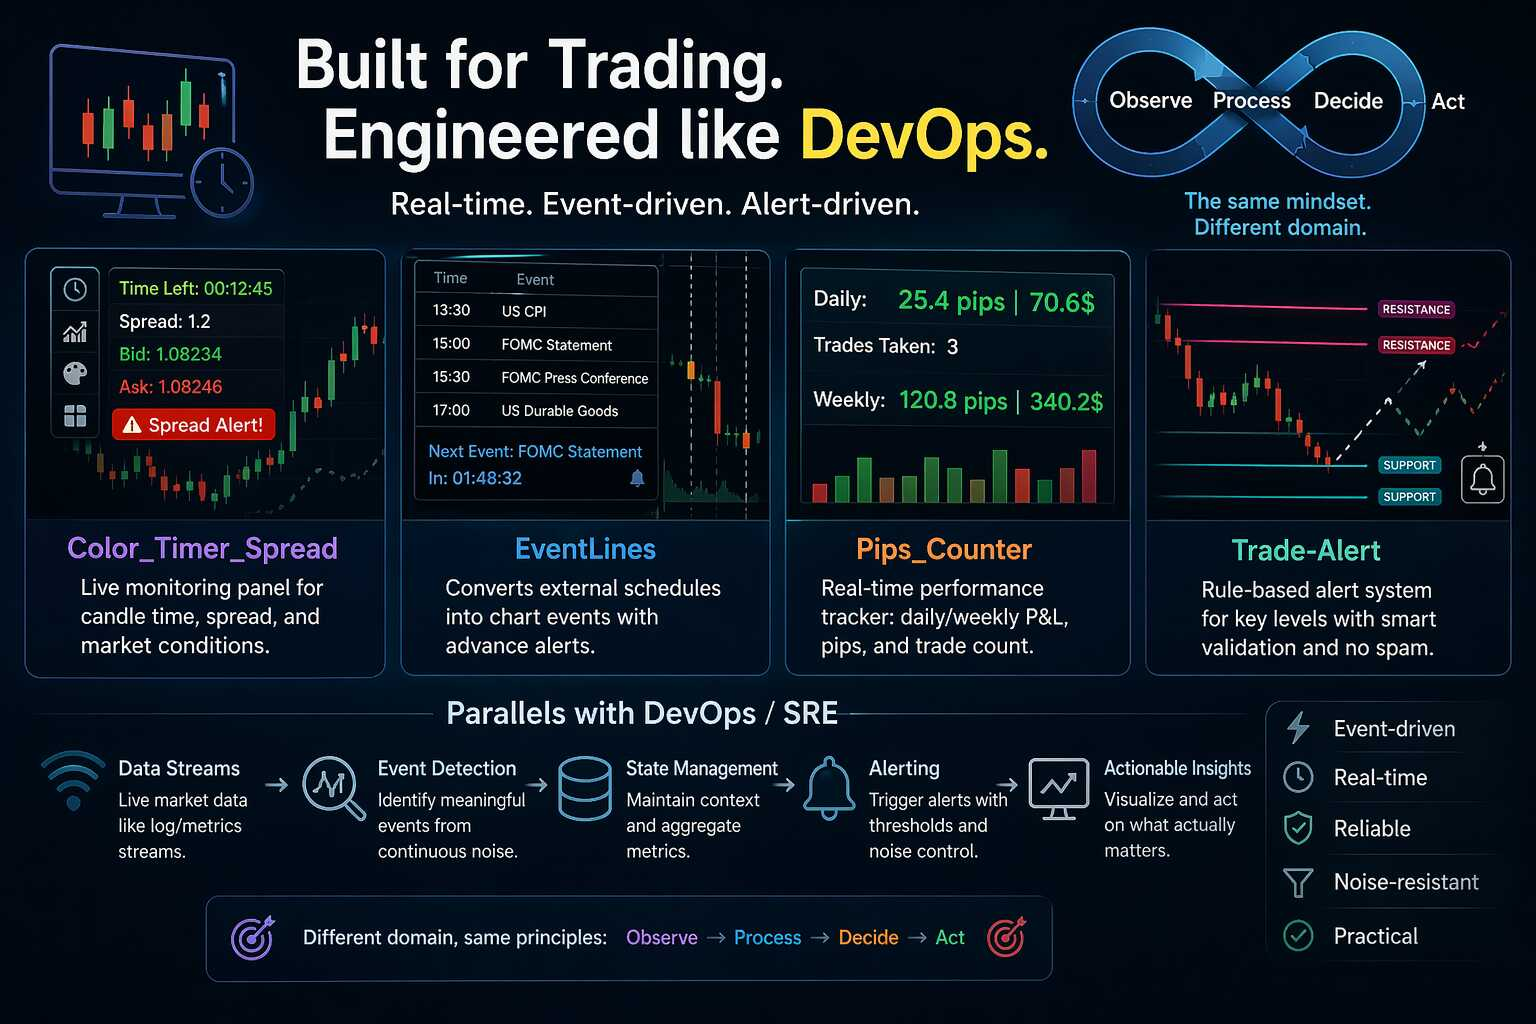
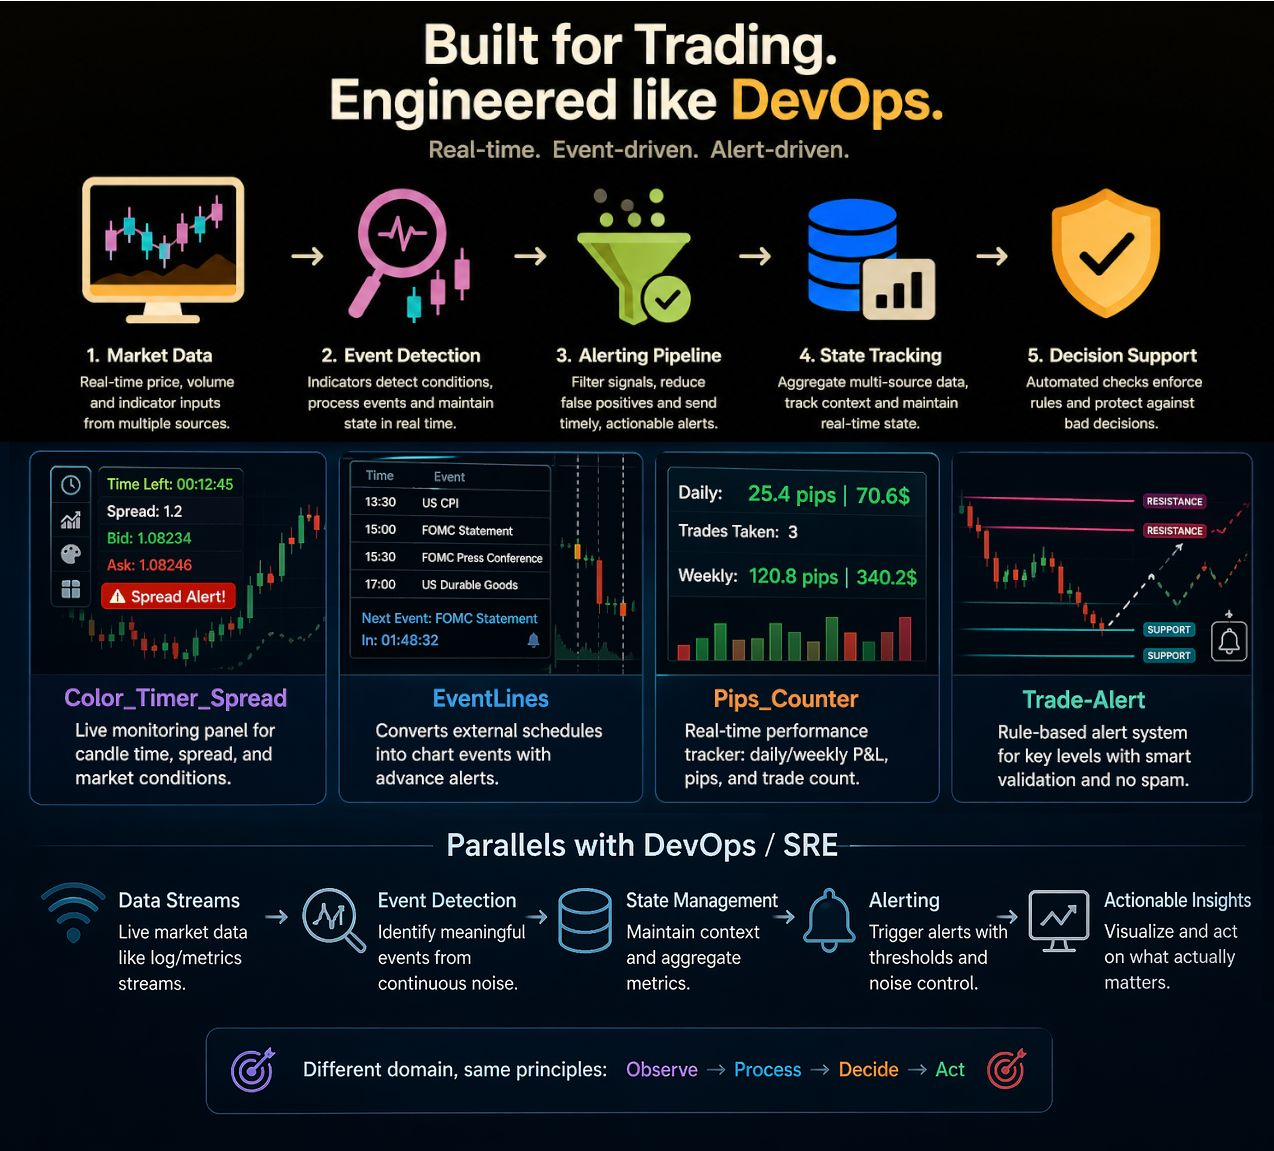
updated readme

diff --git a/README.md b/README.md
@@ -1,45 +1,39 @@
 # MetaTrader 5 Custom Indicators (MQL5)
 
-*Built a set of **`real-time, event-driven monitoring tools in MQL5`** to automate **`trading workflows, reduce manual intervention, and enforce decision discipline`**.*
+> [!NOTE]
+> This is not a single indicator — with time I built a collection of more than 10+ MQL5 tools, each built to solve a specific trading or chart analysis problem.
+>
+> This README highlights the most prominent ones. Some work together as a system; others are standalone solutions.
 
-*These systems process live market data streams, detect meaningful events, and trigger controlled alerts — **`applying engineering principles similar to observability, alerting, and event processing systems used in distributed environments`**.*
+*Built a suite of real-time, event-driven monitoring tools in MQL5 to automate decision workflows, eliminate manual intervention, and enforce operational discipline — the same problems DevOps solves, just in a different domain.*
 
-*Although developed for financial markets, this project demonstrates practical capabilities relevant to DevOps and automation engineering, including:*
+*The domain is financial markets. The engineering mindset is DevOps:*
 
-- Real-time monitoring systems
-- Event detection and processing
-- Alerting pipelines with noise control
-- Data aggregation and state tracking
-- Operational guardrails and automation
+- **Real-time monitoring** — live market data observation with state awareness
+- **Event detection & processing** — trigger-based logic responding to condition changes
+- **Alerting pipelines with noise control** — signal filtering to reduce false positives
+- **Data aggregation & state tracking** — multi-source inputs consolidated into actionable output
+- **Operational guardrails** — automated checks that enforce rules and prevent bad decisions
 
 ![alt text](Screenshots/ss01.jpg)
 
 ## 📑 Table of Contents
 
-- **[Overview](#-overview)**
-- **[Architecture](#-architecture)**
-- **[Data Processors](#-data-processors)**
-- **[Indicators](#-indicators)**
-- **[Engineering Highlights](#-key-engineering-highlights)**
-- **[Challenges & Decisions](#-challenges--decisions)**
-- **[Why This Matters for DevOps](#-why-this-project-matters-for-devops)**
-- **[Author](#-author)**
+- [Overview](#-overview)
+- [Indicators](#-indicators)
+- [Architecture](#-architecture)
+- [Data Processors](#-data-processors)
+- [Indicators](#-indicators)
+- [Engineering Highlights](#-key-engineering-highlights)
+- [Why This Matters for DevOps](#-why-this-project-matters-for-devops)
 
 ## 📌 Overview
 
-*This project consists of **`four custom indicators`** designed as real-time monitoring and alerting tools for trading environments.*
+*This project highlights four custom indicators designed as real-time monitoring and alerting tools for trading environments.*
 
-*Each indicator operates on live data, maintains internal state, and reacts to events — **`similar to how production systems monitor metrics, detect anomalies, and trigger alerts`**.*
+*Each indicator operates on live data, maintains internal state, and reacts to events — similar to how production systems monitor metrics, detect anomalies, and trigger alerts.*
 
-Key capabilities demonstrated:
-
-- Event-driven system design
-- Real-time data processing
-- Stateful monitoring and aggregation
-- Alerting logic with controlled triggers
-- Custom tooling for workflow automation
-
-### Indicators
+## 📊 Indicators
 
 - **Color-timer-spread**\
     *Displays candle countdown timers, monitors spread conditions, and provides configurable alerts with visual feedback on charts.*
@@ -52,21 +46,19 @@ Key capabilities demonstrated:
 
 ## 🏗 Architecture
 
-*All indicators follow an **`event-driven architecture, similar to how monitoring and alerting systems operate in distributed environments`**.*
+*All indicators follow an event-driven architecture.*
 
-*Instead of running blindly, each component reacts to live market data, processes events, maintains state, and triggers actions only when conditions are met.*
+*Each component reacts to live market data, processes events, maintains state, and triggers actions only when conditions are met.*
 
-- Key components:
-
-    ```
-    Market Data Stream
-          ↓
-    Event Processing Logic
-          ↓
-    State Tracking (in-memory)
-          ↓
-    Alert / UI Update
-    ```
+```txt
+Market Data Stream
+      ↓
+Event Processing Logic
+      ↓
+State Tracking (in-memory/persistence)
+      ↓
+Alert / UI Update
+```
 
 Design characteristics:
 
@@ -86,68 +78,75 @@ Stream-processing systems
 **How it works:**
 
 - Raw data from investing.com:
+
     ![alt text](./Raw%20Data%20Processors_JS/investing.com.png)
+
 - Processing by Data Processors:
+
     ![alt text](./Raw%20Data%20Processors_JS/JS.png)
+
 - Final Output:
+
     ![alt text](./Raw%20Data%20Processors_JS/events.png)
-- **`Event-lines.mq5`** Reads the structured event data
+
+- Event-lines.mq5 Reads the structured event data
+
     ![alt text](Screenshots/events.jpg)
 
-To support the indicators, I built **lightweight JavaScript-based preprocessing tools** to clean, transform, and structure external data before feeding it into the system.
+To support the indicators, I built lightweight **JavaScript**-based preprocessing tools to clean, transform, and structure external data before feeding it into the system.
 
-These tools act as a data ingestion and normalization layer, **similar to preprocessing steps in observability or ETL pipelines**.
+These tools act as a data ingestion and normalization layer, similar to preprocessing steps in observability or ETL pipelines.
 
 ### 1. Table Cleaner (Tr.js)
 
-A filtering tool to **remove irrelevant or noisy data from raw HTML tables before processing**.
+A filtering tool to remove irrelevant or noisy data from raw HTML tables before processing.
 
 What it does:
 
-- **Removes <tr> blocks based on keyword matching**
-- **Supports case-sensitive and flexible filtering**
-- **Generates a summary report of removed entries**
-- **Outputs cleaned HTML for further processing**
+- Removes `<tr>` blocks based on keyword matching
+- Supports case-sensitive and flexible filtering
+- Generates a summary report of removed entries
+- Outputs cleaned HTML for further processing
 
-![alt text](./Raw%20Data%20Processors_JS/JS.png)
+  ![alt text](./Raw%20Data%20Processors_JS/JS.png)
 
 Engineering relevance:
 
-- **Noise reduction before data processing**
-- **Keyword-based filtering (similar to log filtering rules)**
-- **Data cleaning to improve downstream accuracy**
+- Noise reduction before data processing
+- Keyword-based filtering (similar to log filtering rules)
+- Data cleaning to improve downstream accuracy
 
 ### 2. Event Processor (Events.js)
 
-A utility designed to **extract and structure event data from raw HTML tables**.
+A utility designed to extract and structure event data from raw HTML tables.
 
 What it does:
 
-- **Parses unstructured HTML using DOM processing**
-- **Extracts relevant fields (date, time, country, event name)**
-- **Converts data into a standardized datetime format (YYYY.MM.DD HH:MM:SS)**
-- **Filters events within a configurable time window**
-- **Outputs clean, structured data for downstream consumption**
+- Parses unstructured HTML using DOM processing
+- Extracts relevant fields (date, time, country, event name)
+- Converts data into a standardized datetime format (YYYY.MM.DD HH:MM:SS)
+- Filters events within a configurable time window
+- Outputs clean, structured data for downstream consumption
 
-![alt text](./Raw%20Data%20Processors_JS/JS.png)
+  ![alt text](./Raw%20Data%20Processors_JS/JS.png)
 
 Engineering relevance:
 
-- **Data normalization from inconsistent sources**
-- **Time-based filtering (similar to log/event pipelines)**
-- **Structured output generation for system compatibility**
+- Data normalization from inconsistent sources
+- Time-based filtering (similar to log/event pipelines)
+- Structured output generation for system compatibility
 
 ### Why this matters
 
-These processors ensure that **only clean, relevant, and structured data enters the system**.
+- These processors ensure that only clean, relevant, and structured data enters the system.
 
-This mirrors real-world DevOps workflows, where raw inputs (logs, metrics, events) must be:
+- This mirrors real-world DevOps workflows, where raw inputs (logs, metrics, events) must be:
 
-- **Filtered**
-- **Normalized**
-- **Structured**
+  - Filtered
+  - Normalized
+  - Structured
 
-before they can be reliably processed by monitoring and alerting systems.
+- before they can be reliably processed by monitoring and alerting systems.
 
 ## 🧩 Indicators
 
@@ -157,7 +156,7 @@ before they can be reliably processed by monitoring and alerting systems.
 
 A **real-time monitoring indicator** that provides time-sensitive and spread-related insights directly on the chart.
 
-Acts like a **`live metrics panel`**, helping users react to short-term market conditions without manual tracking.
+Acts like a live metrics panel, helping users react to short-term market conditions without manual tracking.
 
 ![alt text](Screenshots/candle.png)
 
@@ -167,44 +166,59 @@ Acts like a **`live metrics panel`**, helping users react to short-term market c
 - Candle close alert:
   - Toggle-based alert activation
   - Configurable lead time before close
+
     ![alt text](Screenshots/Timer.jpg)
+
 - Spread alert system:
+
   - Triggers when threshold is exceeded
   - Visual (chart color change) + sound notification
   - Designed to quickly highlight abnormal conditions
-- A dedicated color pallete to change the color of selected object on all open charts **(supporting "trade-alert.mq5" indicator)**
+
+- A dedicated color pallete to change the color of selected object on all open charts (supporting `trade-alert.mq5` indicator)
+
     ![alt text](<Screenshots/Line Change.jpg>)
+
 - Bid/Ask price visualization
-- **Context-aware behavior:**
+- Context-aware behavior:
+
   - Disables unnecessary features on lower timeframes (M1)
   - Enables bulk object selection tools when needed
 
-### 2⃣ Event-lines.mq5
+### 2. Event-lines.mq5
 
 #### Purpose
 
-A **time-based event visualization system** that converts external schedules into actionable chart markers.
+A time-based event visualization system that converts external schedules into actionable chart markers.
 
-Useful for **tracking predefined events, similar to how scheduled jobs or external signals are handled in production systems**.
+Useful for tracking predefined events, similar to how scheduled jobs or external signals are handled in production systems.
 
 #### Key Features
 
-- Reads structured **event data from external files**
+- Reads structured event data from external files
+
     ![alt text](Screenshots/events.jpg)
+
 - Translates timestamps into chart-based event markers
+
     ![alt text](Screenshots/Event-lines.jpg)
-- **Pre-event alerting system:**
+
+- Pre-event alerting system:
+
   - Configurable lead time
+
   - Notifies before event occurrence
-- **Fallback mechanism:**
+- Fallback mechanism:
+
   - Defaults to session timings if external data is unavailable
+
   - Ensures system reliability even with missing inputs
 
-### 3⃣ Pips-counter.mq5
+### 3. Pips-counter.mq5
 
 #### Purpose
 
-A **real-time performance monitoring system** that tracks trading activity and aggregates metrics directly on the chart.
+A real-time performance monitoring system that tracks trading activity and aggregates metrics directly on the chart.
 
 Functions similarly to a **lightweight observability dashboard.**
 
@@ -224,19 +238,19 @@ Functions similarly to a **lightweight observability dashboard.**
   - Displays all metrics using structured chart labels
     ![alt text](Screenshots/Pips_Counter.jpg)
 
-        ```
-                        Daily:  25.4 pips |  70.6$
-        Trades Taken: 3  Weekly: 120.8 pips | 340.2$
-        ```
+    ```txt
+                      Daily:  25.4 pips |  70.6$
+    Trades Taken: 3  Weekly: 120.8 pips | 340.2$
+    ```
 
 - **Integration support:**
   - Triggers external scripts for per day trade limits as reminder
 
-### 4⃣ Trade‑Alert
+### 4. Trade‑Alert
 
 #### Purpose
 
-An **intelligent alerting system** that monitors key price levels and triggers alerts based on proximity and validation rules.
+An intelligent alerting system that monitors key price levels and triggers alerts based on proximity and validation rules.
 
 Designed to act like a **rule-based monitoring system**, reducing unnecessary alerts while focusing on high-value signals.
 
@@ -261,29 +275,27 @@ Designed to act like a **rule-based monitoring system**, reducing unnecessary al
 
 ## ⚙ Key Engineering Highlights
 
-- **Designed event-driven systems** reacting to live data instead of constant polling
-- **Implemented stateful tracking** for real-time aggregation and context-aware decisions
-- **Built noise-controlled alerting systems** using thresholds and one-time triggers
-- **Developed data preprocessing tools** to clean, filter, and structure raw inputs before processing
-- **Applied parsing and normalization logic** to handle unstructured external data
-- **Optimized execution to ensure efficient performance** under continuous real-time conditions
+- **Designed event-driven systems**\
+reacting to live data instead of constant polling
 
-## 🧠 Challenges & Decisions
+- **Implemented stateful tracking**\
+for real-time aggregation and context-aware decisions
 
-This project was built as a small system, not isolated features — focused on processing data, maintaining context, and reacting to events reliably.
+- **Built noise-controlled alerting systems**\
+using thresholds and one-time triggers
 
-Key decisions:
+- **Developed data preprocessing tools**\
+to clean, filter, and structure raw inputs before processing
 
-- Prioritized **event-driven design** over unnecessary computation
-- Separated data preprocessing (JS) from runtime logic (MQL5) for clarity and flexibility
-- Focused on **signal over noise**, preventing alert spam through validation and trigger control
-- Designed **fallback mechanisms** to handle missing or unreliable external data
-- Ensured **consistent data formatting** to avoid downstream processing issues
-- Built **solutions based on real needs**, avoiding unnecessary complexity
+- **Applied parsing and normalization logic**\
+to handle unstructured external data
+
+- **Optimized execution to ensure efficient performance**\
+under continuous real-time conditions
 
 ## 🚀 Why This Project Matters for DevOps
 
-These indicators were built to **solve real operational challenges in a live trading environment**, where decisions depend on timely and accurate information.
+These indicators were built to solve real operational challenges in a live trading environment, where decisions depend on timely and accurate information.
 
 They address problems such as:
 
@@ -292,9 +304,9 @@ They address problems such as:
 - Detecting meaningful events
 - Triggering timely, actionable alerts
 
-To support this, I also **built data preprocessing tools** to clean and structure external inputs before they enter the system — ensuring reliability and consistency across the pipeline.
+To support this, I also built data preprocessing tools to clean and structure external inputs before they enter the system — ensuring reliability and consistency across the pipeline.
 
-The same principles directly apply to **DevOps and SRE environments**, where systems must:
+The same principles directly apply to DevOps and SRE environments, where systems must:
 
 - Ingest and process raw data (logs, metrics, events)
 - Filter and normalize noisy or inconsistent inputs
@@ -309,10 +321,4 @@ This project demonstrates the ability to design end-to-end systems, including:
 - Stateful monitoring and aggregation
 - Noise-controlled alerting mechanisms
 
-All **operating on live data streams with intelligent, event-driven behavior** — a core requirement in modern production infrastructure.
-
-## 👨💻 Author
-
-This project reflects **my approach to system design** — `focusing on real-time processing, signal detection, and controlled automation`.
-
-I aim to build systems that are **practical, reliable, and responsive**, applying the same mindset used in production monitoring, alerting, and automation workflows.
+All operating on live data streams with intelligent, event-driven behavior — a core requirement in modern production infrastructure.
